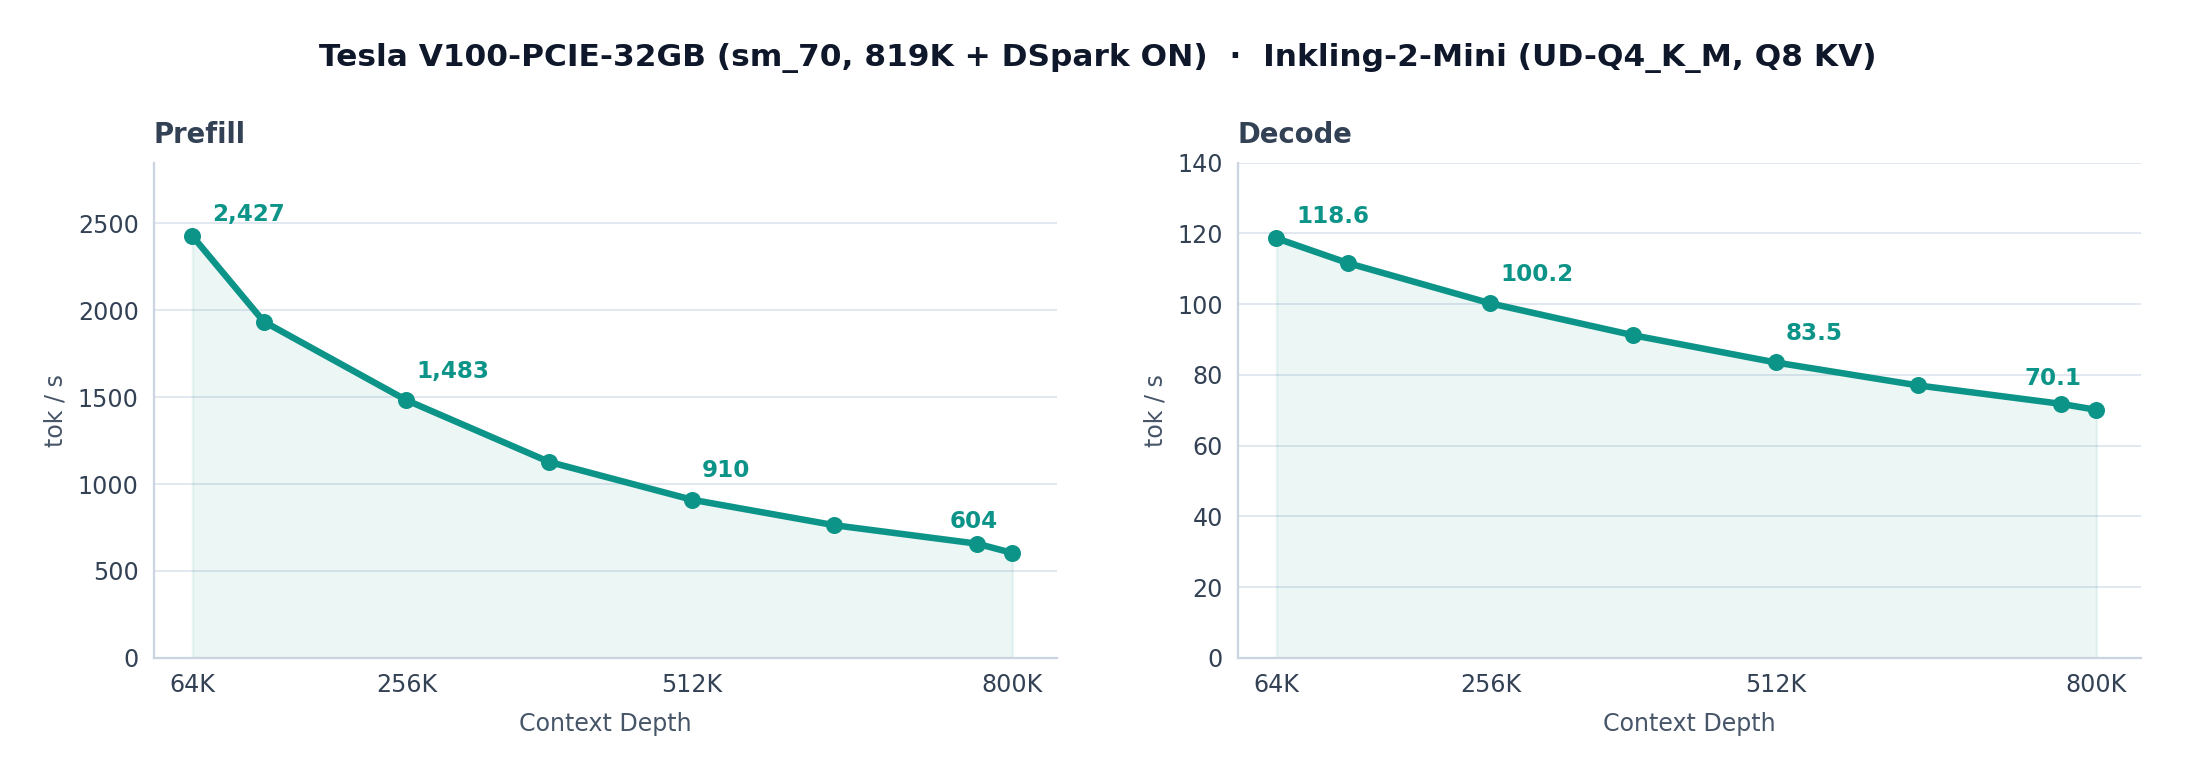
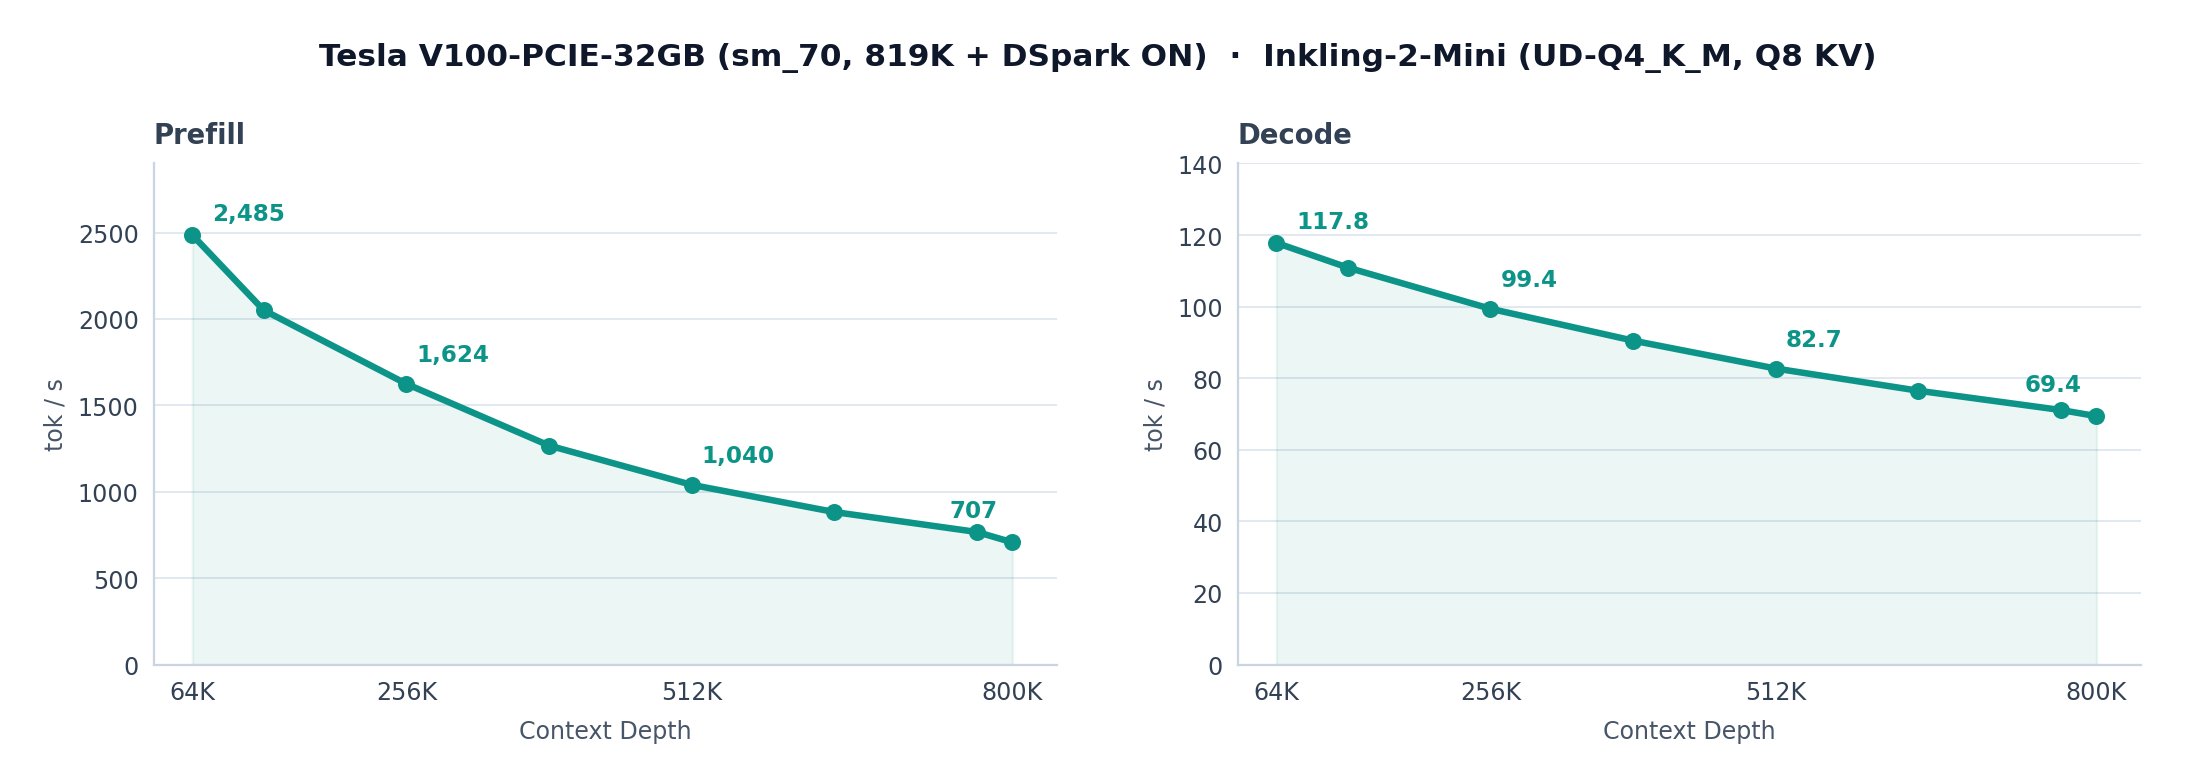
perf(inkling2/sm70): native PTX HMMA.884 FA2_256_bulk (74.8 TFLOPS, 800K PP 604 -> 707 t/s, +17.1%)

diff --git a/docs/bench-results/2026-11-22-v100-inkling2-800k/README.md b/docs/bench-results/2026-11-22-v100-inkling2-800k/README.md
@@ -28,7 +28,22 @@ Key `2f09e21e` (Round 4) & `9056d598` (Round 5 — zero quantization change) cha
 | `786,432` | `+131,009` (`655,423`) | `229.7 t/s` | `573.3 t/s` | `625.5 t/s` | **`657.2 t/s`** | **`2.86x`** | `4,840 -> 1,654 ms` | `35.5 t/s` | `66.5 t/s` | **`71.8 t/s`** (`891.4 ms`) | **`+102.3%`** |
 | **`819,000`** | `+32,505` (`786,495`) | `208.1 t/s` | `525.8 t/s` | `574.3 t/s` | **`603.7 t/s`** | **`2.90x`** | **`5,028 -> 1,709 ms`** | `34.5 t/s` | `65.3 t/s` | **`70.1 t/s`** (`913.1 ms`) | **`+103.2% (2.03x)`** |
 
-Cumulative `0 -> 819,000` wall time: `2,188.1 s` (`36.5 min`) in `6ff2c009` -> `942.4 s` (`15.7 min`) in `8a30df9a` -> `875.9 s` (`14.6 min`) in `2f09e21e` -> **`841.7 s` (`14.0 min`, `2.60x` faster overall, `984 t/s` avg PP)** in `9056d598`. Zero OOMs, zero thermal/power throttling, zero quantization changes.
+Cumulative `0 -> 819,000` wall time: `2,188.1 s` (`36.5 min`) in `6ff2c009` -> `942.4 s` (`15.7 min`) in `8a30df9a` -> `875.9 s` (`14.6 min`) in `2f09e21e` -> `841.7 s` (`14.0 min`, `984 t/s` avg PP) in `9056d598` -> **`741.2 s` (`12.35 min`, `2.95x` faster overall, `1,116 t/s` avg PP)** in **Round 6 (Volta native `HMMA.884`)**. Zero OOMs, zero thermal/power throttling, zero quantization changes.
+
+### Round 6 Update: Volta Native `HMMA.884` (`mma.sync.aligned.m8n8k4`, `STRIDE=144`)
+
+Replacing C++ WMMA inside `k_attn_q8_gqa3_pp_fa2_256_bulk` on `sm_70` with direct PTX `HMMA.884` (`LDS.128` 128-bit Q/K loads, 8-way batched `LDS.64` V loads, conflict-free `STRIDE=144` SMEM `92,160 B`, compact `packed4` softmax) boosts Global Attention from `61.0` to **`74.8 TFLOPS` (`89.0%` of real `cuBLAS 4096^3` ceiling, `137.8 ms/L`)** with **64/64 exact greedy token parity** (zero quantization change):
+
+| Depth | R5 (`9056d598`) PP | **R6 (`HMMA.884`) PP** | R6 vs R5 | R6 vs Base (`6ff2c009`) | Last Chunk (`1024`) | R6 Decode |
+|---:|---:|---:|---:|---:|---:|---:|
+| `65,536` | `2,427.2 t/s` | **`2,485.3 t/s`** | `+2.4%` | `+53.1%` | `450 ms` | `117.8 t/s` |
+| `131,072` | `1,935.3 t/s` | **`2,050.8 t/s`** | **`+6.0%`** | `1.99x` | `529 ms` | `110.9 t/s` |
+| `262,144` | `1,483.0 t/s` | **`1,624.3 t/s`** | **`+9.5%`** | `2.44x` | `704 ms` | `99.4 t/s` |
+| `393,216` | `1,127.8 t/s` | **`1,267.3 t/s`** | **`+12.4%`** | `2.80x` | `883 ms` | `90.5 t/s` |
+| `524,288` | `910.4 t/s` | **`1,040.0 t/s`** | **`+14.2%`** | `3.04x` | `1,058 ms` | `82.7 t/s` |
+| `655,360` | `763.4 t/s` | **`882.6 t/s`** | **`+15.6%`** | `3.21x` | `1,235 ms` | `76.5 t/s` |
+| `786,432` | `657.2 t/s` | **`767.0 t/s`** | **`+16.7%`** | `3.34x` | `1,410 ms` | `71.1 t/s` |
+| **`819,000`** | `603.7 t/s` | **`707.1 t/s`** | **`+17.1%`** | **`3.40x`** | **`1,458 ms`** (`-251 ms`) | `69.4 t/s` |
 
 ---
 

diff --git a/README.md b/README.md
@@ -72,9 +72,10 @@ Full RTX 4070 progression & CSV data: [2026-11-22 RTX 4070 262K Report](docs/ben
 
 | Mode (`--max-context`) | Context Depth | Prefill | Decode | Notes |
 | --- | ---: | ---: | ---: | --- |
-| **`819200`** (DSpark ON, `full_vram`) | `65K` | `2,428.7 t/s` | **`117.6 t/s`** | `3,072/3,072` experts, `916 MiB` free |
-| **`819200`** (DSpark ON, `full_vram`) | `131K` | `1,935.4 t/s` | **`110.8 t/s`** | Zero regression vs pre-R4 baseline |
-| **`819200`** (DSpark ON, `full_vram`) | `262K` | `1,483.7 t/s` | **`99.3 t/s`** | Verified up to `819,200` tokens |
+| **`819200`** (DSpark ON, `full_vram`) | `64K` | **`2,485.3 t/s`** | **`117.8 t/s`** | `3,072/3,072` experts, `916 MiB` free |
+| **`819200`** (DSpark ON, `full_vram`) | `256K` | **`1,624.3 t/s`** | **`99.4 t/s`** | Native Volta `HMMA.884` (`74.8 TFLOPS`) |
+| **`819200`** (DSpark ON, `full_vram`) | `512K` | **`1,040.0 t/s`** | **`82.7 t/s`** | `>1,000 t/s` sustained past half-million ctx |
+| **`819200`** (DSpark ON, `full_vram`) | `800K` | **`707.1 t/s`** | **`69.4 t/s`** | `3.40×` PP vs baseline; `0→819K` in `12.4 min` |
 | **`1048576`** (DSpark OFF, `core_resident_hybrid`) | `1M` | — | **`54.4 t/s`** | `2,897/3,072` experts (`+90` vs pre-arena) |
 
 Full V100 800K progression, Roofline analysis & chart: [2026-11-22 V100 800K Report](docs/bench-results/2026-11-22-v100-inkling2-800k/README.md).
